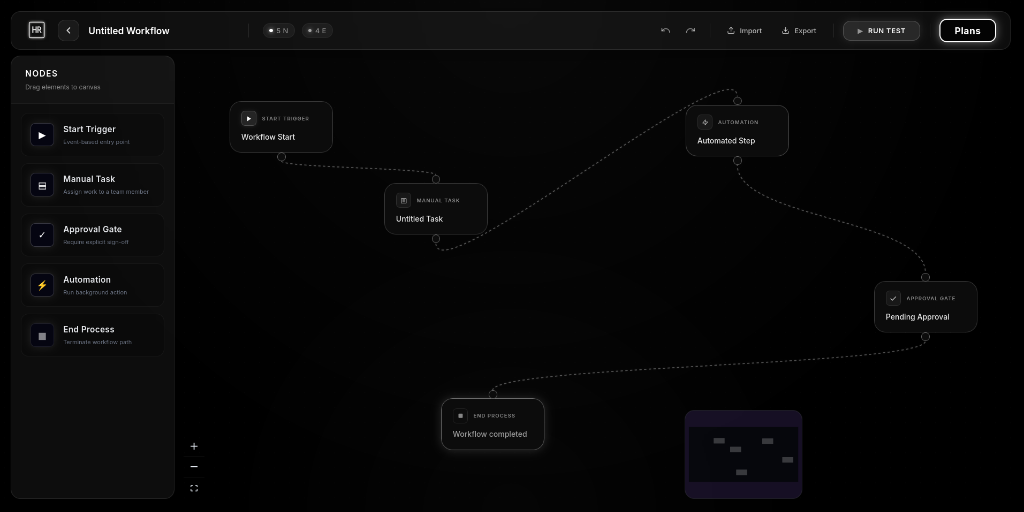
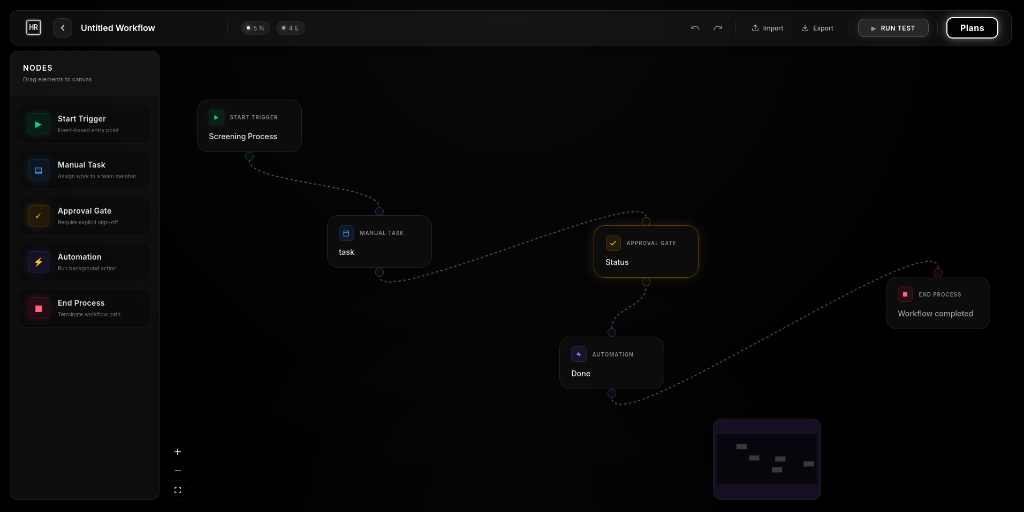
update: replace dashboard screenshot and update demo video driver URL

diff --git a/src/pages/LandingPage.tsx b/src/pages/LandingPage.tsx
@@ -138,7 +138,7 @@ export function LandingPage({ onEnterApp, onNavPlans }: LandingPageProps) {
               </svg>
             </button>
             <iframe 
-              src="https://drive.google.com/file/d/1b-8rwoCYGsjdxai1Ru4IhvwZz3Fe5iQb/preview" 
+              src="https://drive.google.com/file/d/1T02NT4Lizbc2j9AfNOc-uNyN8iSnnvos/preview" 
               className="w-full h-full border-0"
               allow="autoplay"
               allowFullScreen

diff --git a/README.md b/README.md
@@ -8,7 +8,7 @@
 ![HRnest Canvas View](./public/dashboard.png)
 *Visual Workflow Designer Canvas*
 
-**[🎥 Watch the full Video Demo](https://drive.google.com/file/d/1b-8rwoCYGsjdxai1Ru4IhvwZz3Fe5iQb/view?usp=sharing)**
+**[🎥 Watch the full Video Demo](https://drive.google.com/file/d/1T02NT4Lizbc2j9AfNOc-uNyN8iSnnvos/view?usp=sharing)**
 
 ## Project Overview
 An HR admin tool designed to visually create and test internal workflows (such as onboarding, leave approval, and document verification) using a drag-and-drop canvas interface. Note that this is a frontend prototype demonstrating complex interactive diagramming without a physical backend.